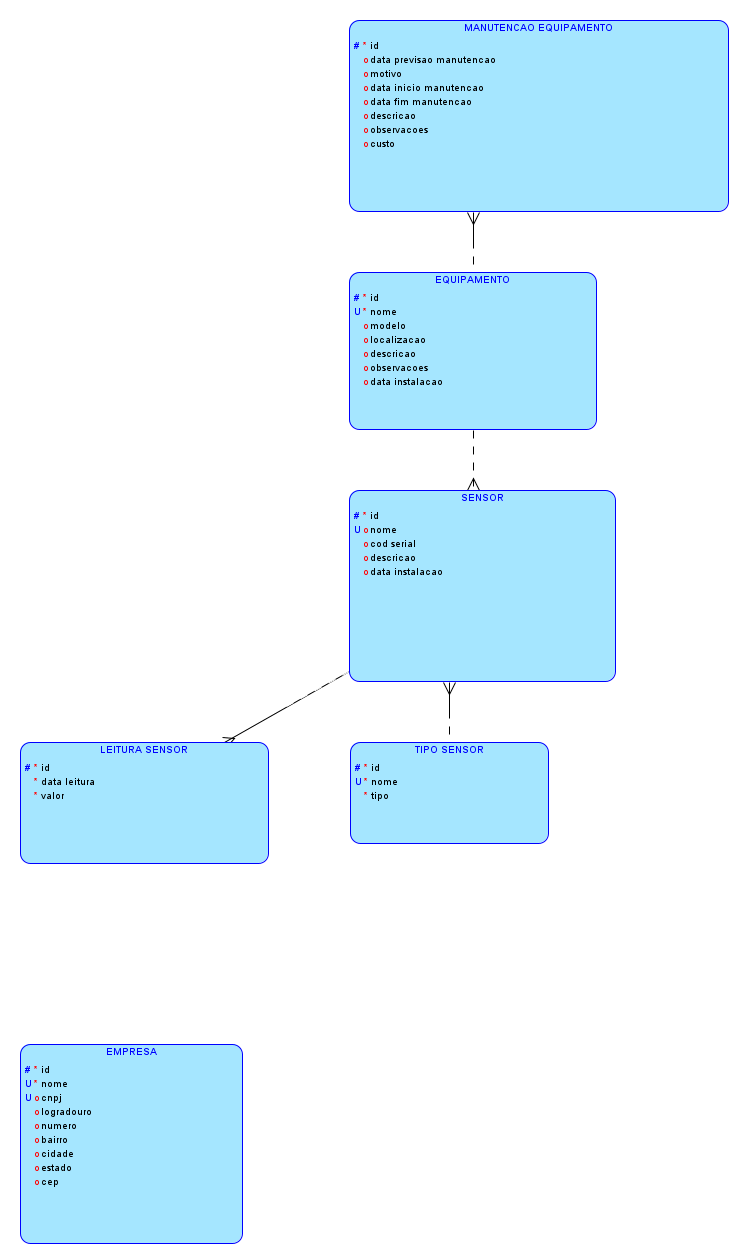
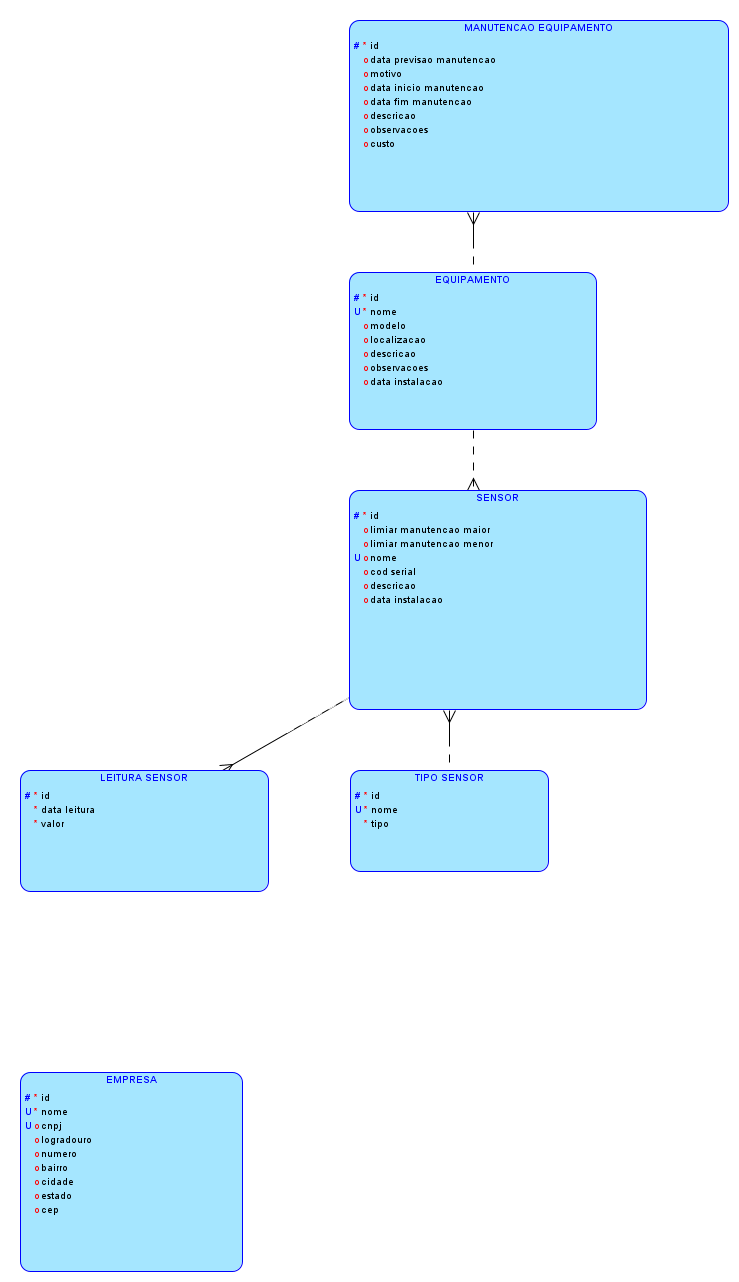
Update README and table creation script for project transition to Sprint 4, add email notification feature, and enhance sensor management

diff --git a/README.md b/README.md
@@ -6,9 +6,9 @@
 
 <br>
 
-# Projeto: fiap_sprint3_reply
+# Projeto: fiap_sprint4_reply
 
-## Atividade em Grupo: FIAP - 1TIAOB - 2025/1 - Fase5 Sprint 3 - Reply
+## Atividade em Grupo: FIAP - 1TIAOB - 2025/1 - Fase6 Sprint 4 - Reply
 
 ## 👨🎓 Integrantes: 
 - <a href="">Alice C. M. Assis - RM 566233</a>
@@ -67,6 +67,8 @@ Além disso, esta entrega exige:
 Esses sensores foram escolhidos por serem amplamente utilizados em ambientes industriais e facilmente simuláveis no Wokwi.
 
 # 4. Esquema do Circuito Simulado
+
+O circuito simulado é o mesmo feito quando da entrega 2 (https://github.com/Hinten/fiap_sprint2_reply), foram feitas pequenas modificações, principalmente na conexão WIFI e variáveis de ambiente, para que o ESP32 consiga se conectar a API local e enviar os dados dos sensores.
 
 <p align="center">
   <img src="assets/ciruito.JPG" alt="Circuito Sensor" border="0" width=70% height=70%>
@@ -232,7 +234,7 @@ Essas classes podem ser encontradas na pasta `src/database/models`, e todas elas
 ## Script de Criação do Banco de Dados
 
 O script para criação do banco de dados e tabelas pode ser encontrado no arquivo [assets/table_creation.ddl](assets/table_creation.ddl).
-**Este script não precisa ser executado manualmente, pois o banco de dados é criado automaticamente ao iniciar o dashboard.**
+**Este script não precisa ser executado manualmente, pois o banco de dados é criado automaticamente ao iniciar o dashboard ou API.**
 
 # 8. Instalando e Executando o Projeto
 
@@ -297,6 +299,14 @@ O projeto utiliza variáveis de ambiente para configuração dos serviços, banc
 
 Para facilitar o deploy e os testes do sistema, foi adotada uma abordagem automatizada utilizando Terraform e AWS CLI para provisionamento da infraestrutura na nuvem AWS.
 
+## Diagrama da Arquitetura
+
+<p align="center">
+  <img src="assets/Diagrama_reply.drawio.png" alt="Diagrama da arquitetura" border="0" width=70% height=70%>
+</p>
+
+Comparado com o primeiro planejamento, que pode ser visto no github https://github.com/Hinten/fiap_sprint1_reply, o projeto vem evoluindo bem, estando quase todo o planejamento inicial implementado, faltando apenas a a parte de treinamento de IA automatizado.
+
 ## Pré-requisitos
 
 - **Terraform** instalado na máquina local ([documentação oficial](https://developer.hashicorp.com/terraform/tutorials/aws-get-started/install-cli)).
@@ -347,49 +357,85 @@ Esta estratégia foi adotada para agilizar o deploy e os testes do sistema duran
 
 No futuro, iremos aprimorar o processo, realizando o build da imagem Docker localmente e enviando-a para um repositório (como Amazon ECR ou Docker Hub), ou ainda adotando um pipeline de CI/CD para automação completa do deploy, garantindo maior controle, segurança e escalabilidade.
 
-
 # 10. Treinamento do modelo de Machine Learning
 
-O treinamento do modelo de Machine Learning foi realizado utilizando a biblioteca Scikit-Learn em Python, podendo ser verificano no arquivo [treinamento_ml.ipynb](src/machine_learning/jupyter/treinamento_ml.ipynb).
-Nele também estão disponíveis análises exploratórias dos dados, pré-processamento e avaliação dos modelos, bem como células markdown explicativas.
+Comparado ao trabalho anterior, constante no github https://github.com/Lesasouza/fiap_sprint3_reply, foi elaborada uma nova View de treinamento de modelos de Machine Learning no dashboard utilizando o Pycaret.
 
-O dataset utilizado para o treinamento do modelo pode ser encontrado na pasta [leituras_com_equipamento.csv](src/machine_learning/jupyter/leituras_com_equipamento.csv).
+<p align="center">
+  <img src="assets/train_model/train_model.JPG" alt="Train Model View" border="0" width=70% height=70%>
+</p>
 
-Ainda, os modelos treinados e otimizados foram salvos em arquivos `.pkl` e podem ser encontrados na pasta [modelos_otimizados_salvos](assets/modelos_otimizados_salvos).
+Essa nova View permite que o usuário treine vários modelos diferentes de Machine Learning com apenas um clique, utilizando a biblioteca PyCaret para simplificar o processo.
 
-# 11. 📊 Resultados do Machine Learning
+<p align="center">
+  <img src="assets/train_model/train_model2.JPG" alt="Train Model View" border="0" width=70% height=70%>
+</p>
 
-Este projeto apresenta, em uma interface interativa com Streamlit, os resultados de um processo de otimização de modelos de machine learning.
+O user pode selecionar a métrica que deseja otimizar (ex: Acurácia, F1-Score, ROC AUC) e o sistema treina automaticamente vários modelos, apresentando os resultados em uma tabela interativa, e posteriormente salva o melhor modelo.
 
-São exibidas métricas de desempenho, comparações gráficas e análise de tempos de treinamento, auxiliando na interpretação dos modelos avaliados.
+<p align="center">
+  <img src="assets/train_model/train_model3.JPG" alt="Train Model View" border="0" width=70% height=70%>
+</p>
 
-🚀 Funcionalidades
+<p align="center">
+  <img src="assets/train_model/train_model4.JPG" alt="Train Model View" border="0" width=70% height=70%>
+</p>
 
-✅ Carregamento automático dos resultados e tempos de treinamento dos modelos.
+<p align="center">
+  <img src="assets/train_model/train_model5.JPG" alt="Train Model View" border="0" width=70% height=70%>
+</p>
 
-✅ Exibição em tabela interativa com as principais métricas de avaliação.
+<p align="center">
+  <img src="assets/train_model/train_model6.JPG" alt="Train Model View" border="0" width=70% height=70%>
+</p>
 
-✅ Visualizações gráficas:
+<p align="center">
+  <img src="assets/train_model/train_model7.JPG" alt="Train Model View" border="0" width=70% height=70%>
+</p>
 
-Acurácia
+# 11. 📊 Notificações via EMAIL
 
-F1-Score
+O sistema implementa notificações automáticas via email utilizando o serviço Amazon SNS (Simple Notification Service) da AWS. Para que o user receba as notificações, é necessário configurar o serviço SNS na AWS e adicionar o email do destinatário como assinante do tópico SNS.
 
-ROC AUC
+<p align="center">
+  <img src="assets/notificacoes/subscricao_email.JPG" alt="Subscrição Email" border="0" width=70% height=70%>
+</p>
 
-Tempo de Treinamento
+Após a adicionar o email, o usuário receberá um email de confirmação, sendo necessário clicar no link para confirmar a subscrição.
 
-✅ Resumos explicativos dos resultados e insights obtidos.
+<p align="center">
+  <img src="assets/notificacoes/subscricao_email_confirmar.JPG" alt="Confirmar Subscrição Email" border="0" width=70% height=70%>
+</p>
 
-✅ Conclusão sobre melhores modelos considerando precisão, interpretabilidade e custo computacional.
+Confirmada a subscrição, o usuário começará a receber as notificações enviadas pelo sistema. Para ter certeza que o email está funcionando, o usuário pode enviar um email de teste clicando no botão "Enviar E-mail de Teste".
 
-📊 Exemplos de Resultados
+# 12. 📊 Visualização de leituras em tempo real e notificação de alertas
 
-<img width="1437" height="777" alt="image" src="assets/f1 score.png" />
-<img width="1437" height="777" alt="image" src="assets/acurácia.png" />
-<img width="1437" height="777" alt="image" src="assets/auc.png" />
+A página principal do aplicativo se tornou uma View para visualização das leituras dos sensores em tempo real, com gráficos atualizados a cada 60 segundos.
 
-# 12. Previsão Manual com Modelos Treinados
+> Nota: Tentamos implementar atualizações em um período de tempo menor, mas aparentemente o Streamlit tem um memoryleak que acaba congelando a máquina. Estamos trabalhando para solucionar esse problema nas próximas entregas.
+ 
+<p align="center">
+  <img src="assets/tempo_real/tempo_real.JPG" alt="Tempo Real" border="0" width=70% height=70%>
+</p>
+
+Caso o user cadastre um sensor com limiares de alerta, nos campos "Limiar De Manutenção Maior" ou "Limiar De Manutenção Menor" o gráfico de visualização mostrará linhas as quais apontam que as leituras estão ultrapassando os limiares, conforme abaixo:.
+ 
+<p align="center">
+  <img src="assets/notificacoes/tempo_real_limiar.JPG" alt="Tempo Real" border="0" width=70% height=70%>
+</p>
+ 
+<p align="center">
+  <img src="assets/notificacoes/tempo_real_limiar.JPG" alt="Tempo Real" border="0" width=70% height=70%>
+</p>
+
+Por fim, nesta página, o user poderá fazer previsões com os valores das leituras em tempo real, clicando no botão "Fazer Previsão", caso o modelo identifique que a manutenção é necessária, o user poderá enviar um email de alerta clicando no botão "Enviar Alerta de Manutenção".
+ 
+<p align="center">
+  <img src="assets/notificacoes/tempo_real_limiar_previsao_alerta.JPG" alt="Tempo Real" border="0" width=70% height=70%>
+</p>
+
+# 13. Previsão Manual com Modelos Treinados
 
 Também é possível realizar previsões manuais utilizando modelos de machine learning previamente treinados e salvos em arquivos .joblib, conforme demonstrado na imagem abaixo:
 
@@ -430,7 +476,7 @@ Saída:
 ⚠ Manutenção Necessária
 
 
-# 13. Importando a Base de dados utilizada pelo Grupo
+# 14. Importando a Base de dados utilizada pelo Grupo
 
 As tabelas com os dados utilizados no sistema podem ser encontradas na pasta em [assets/database_export.zip](assets/database_export.zip).
 
